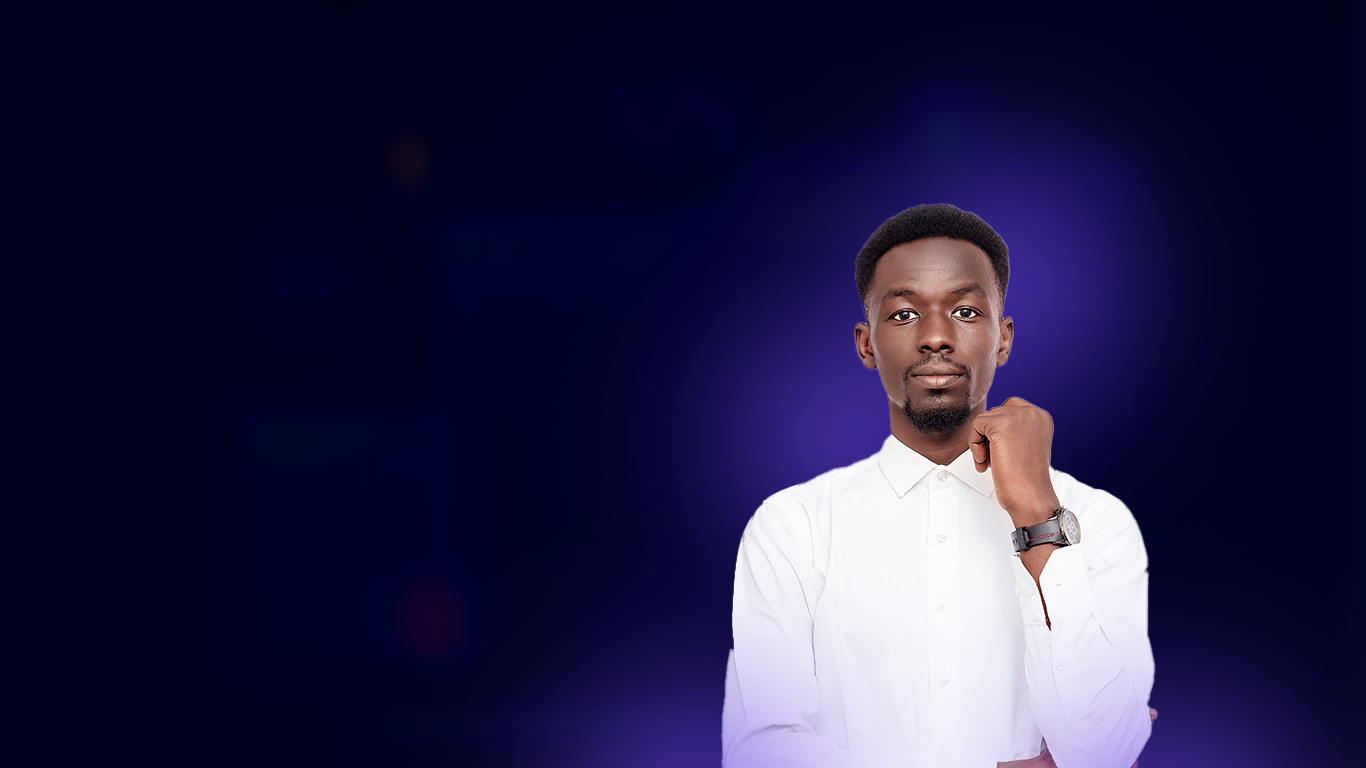
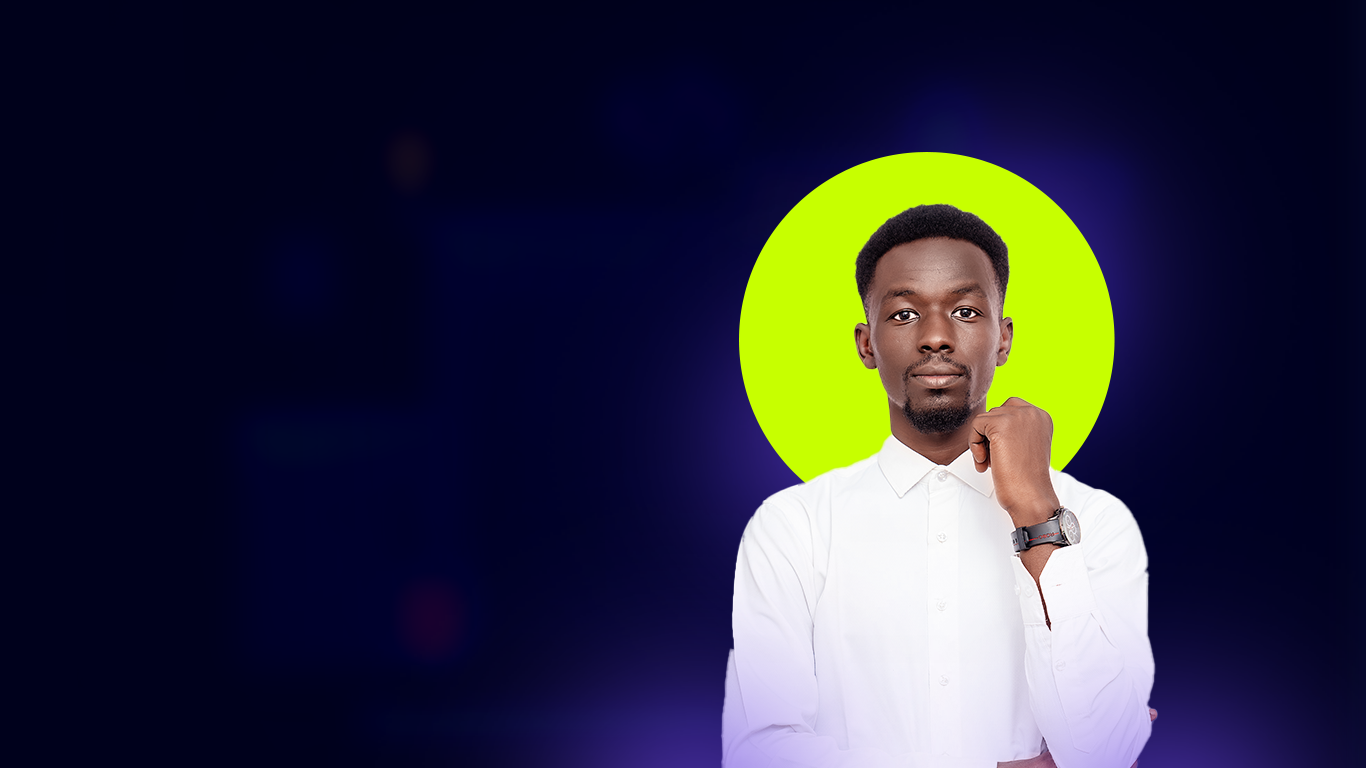
hero-btn-primary en #c7ff00

Changed region(s): [[0.5227, 0.1875, 0.8302, 0.625]]

diff --git a/src/styles.css b/src/styles.css
@@ -543,14 +543,14 @@ section {
 }
 
 .hero-btn-primary {
-  background: var(--accent-orange);
-  color: white;
+  background: #c7ff00;
+  color: #1a1a2e;
   border: none;
 }
 
 .hero-btn-primary:hover {
   transform: translateY(-2px);
-  box-shadow: 0 10px 30px rgba(125, 83, 255, 0.3);
+  box-shadow: 0 10px 30px rgba(199, 255, 0, 0.3);
 }
 
 .hero-btn-secondary {